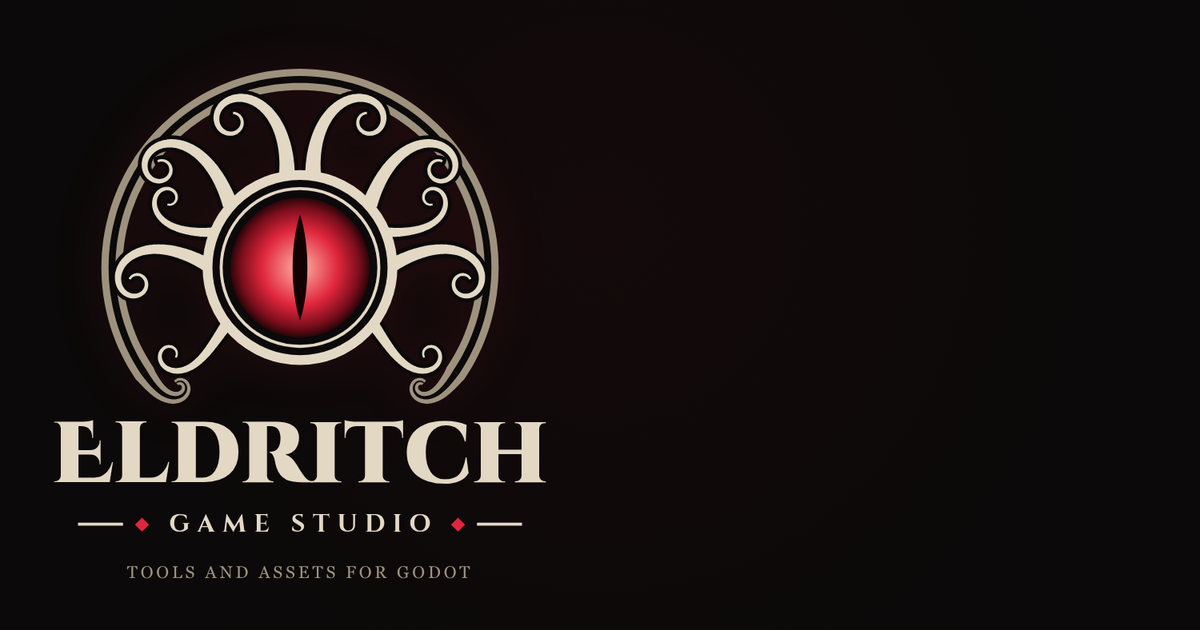
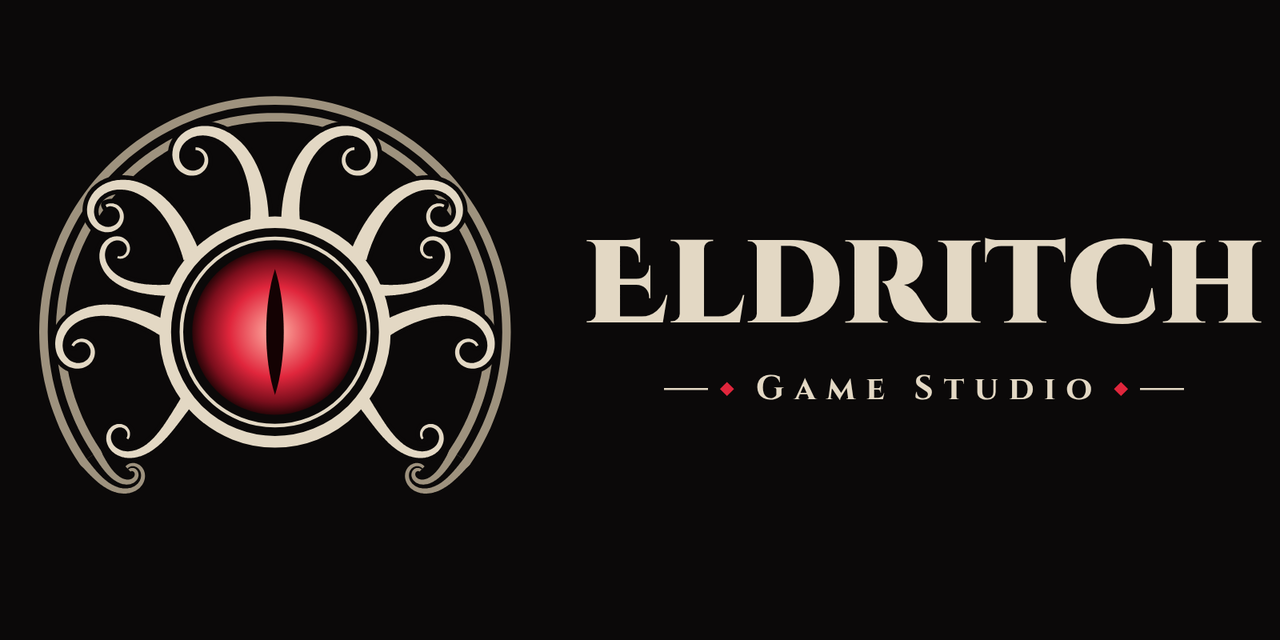
Update studio social preview

diff --git a/public/index.html b/public/index.html
@@ -4,22 +4,22 @@
   <meta charset="utf-8">
   <meta name="viewport" content="width=device-width, initial-scale=1">
   <title>Eldritch Game Studio</title>
-  <meta name="description" content="Eldritch Game Studio creates tools and assets for Godot.">
+  <meta name="description" content="Independent game studio crafting strange worlds and the tools to bring them to life.">
   <meta name="theme-color" content="#0b0909">
   <meta name="color-scheme" content="dark">
   <meta property="og:type" content="website">
   <meta property="og:site_name" content="Eldritch Game Studio">
   <meta property="og:title" content="Eldritch Game Studio">
-  <meta property="og:description" content="Tools and assets for Godot from Eldritch Game Studio.">
+  <meta property="og:description" content="Independent game studio crafting strange worlds and the tools to bring them to life.">
   <meta property="og:url" content="https://eldritch.studio/">
   <meta property="og:image" content="https://eldritch.studio/assets/og-image.png">
   <meta property="og:image:type" content="image/png">
-  <meta property="og:image:width" content="1200">
-  <meta property="og:image:height" content="630">
+  <meta property="og:image:width" content="1280">
+  <meta property="og:image:height" content="640">
   <meta property="og:image:alt" content="Eldritch Game Studio emblem and wordmark">
   <meta name="twitter:card" content="summary_large_image">
   <meta name="twitter:title" content="Eldritch Game Studio">
-  <meta name="twitter:description" content="Tools and assets for Godot from Eldritch Game Studio.">
+  <meta name="twitter:description" content="Independent game studio crafting strange worlds and the tools to bring them to life.">
   <meta name="twitter:image" content="https://eldritch.studio/assets/og-image.png">
   <link rel="canonical" href="https://eldritch.studio/">
   <link rel="icon" href="assets/emblem.svg" type="image/svg+xml">
